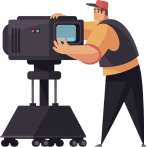
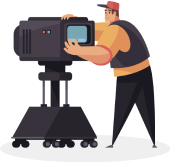
changed img css and index

diff --git a/index.html b/index.html
@@ -37,29 +37,36 @@
 
         <!--MAIN-->
         <div class="main">
-            <h1>Как смотреть кино</h1>
+            <h1>Как смотреть <br> кино</h1>
+
             <p>
-                За 8 занятий станем активными зрителями
+                За 8 занятий станем активными зрителями <br>
                 и разберёмся в кинопроцессе
             </p>
-            <img class="producer" src="img/producer_shadow.png" alt="producer">
-            <img class="shadow" src="img/shadow.png" alt="producer_shadow">
-            <p>
-                Зритель для меня
+
+            <img class="producer" src="img/producer.png" alt="producer">
+
+            <p class="author-text">
+                Зритель для меня <br>
                 не потребитель моей продукции, не судья,
                 а соучастник творчества, соавтор.
+                <span>Андрей Тарковский</span>
             </p>
+
             <h2>О курсе</h2>
-            <p>
+
+            <p class="about">
                 Порой фильмы устроены сложнее четырёхтомных романов. Но читать книги учат со школы, а смотреть кино —
                 нет. При этом без подготовки бывает трудно получить от просмотра удовольствие.
             </p>
-            На курсе из 8 занятий научимся быть осознанными зрителями. Познакомимся с этапами кинопроизводства и
-            узнаем, как смотреть кино глазами сценариста, режиссёра и монтажёра. Разберёмся в особенностях жанров и
-            рассмотрим важнейшие картины, от «Гражданина Кейна» до «Матрицы».
+
+            <p class="about">
+                На курсе из 8 занятий научимся быть осознанными зрителями. Познакомимся с этапами кинопроизводства и
+                узнаем, как смотреть кино глазами сценариста, режиссёра и монтажёра. Разберёмся в особенностях жанров и
+                рассмотрим важнейшие картины, от «Гражданина Кейна» до «Матрицы».
             </p>
+
             <img class="operator" src="img/operator.png" alt="operator">
-            <img class="shadow" src="img/operator_shadow.png" alt="operator_shadow">
             <p>
                 8 занятий
                 <span>Для погружения в кинематограф</span>

diff --git a/css/style.css b/css/style.css
@@ -1,0 +1,120 @@
+@import url('https://fonts.googleapis.com/css2?family=Roboto:ital,wght@0,100;0,300;0,400;0,500;0,700;0,900;1,100;1,300;1,400;1,500;1,700;1,900&display=swap');
+@import url('https://fonts.googleapis.com/css2?family=Roboto+Slab:wght@100;200;300;400;500;600;700;800;900&display=swap');
+
+* {
+    margin: 0;
+    padding: 0;
+}
+
+body {
+    font-family: 'Roboto', sans-serif;
+    font-size: 10px;
+    line-height: 15px;
+    font-weight: 400;
+}
+
+h1 {
+    font-family: 'Roboto Slab', sans-serif;
+    font-size: 37px;
+    line-height: 37px;
+    margin-bottom: 15px;
+    font-weight: 700;
+}
+
+h2 {
+    font-size: 26px;
+    font-family: 'Roboto Slab', sans-serif;
+    margin-bottom: 20px;
+}
+
+.footer {
+    background-color: black;
+}
+
+/*** MOBILE **/
+@media(max-width: 991px) and (min-width: 320px) {
+    .wrapper {
+        width: 100%;
+        padding-top: 36px;
+        padding-left: 36px;
+        padding-right: 40px;
+    }
+
+    .header {
+        width: 100%;
+    }
+
+    .logo {
+        width: 52px;
+        height: 30px;
+        margin-bottom: 40px;
+    }
+
+    .navigation {
+        display: flex;
+        list-style-type: none;
+    }
+
+    .navigation li {
+        display: flex;
+        align-items: center;
+    }
+
+    .navigation img {
+        display: block;
+        margin-right: 5px;
+        margin-left: 10px;
+    }
+
+    .navigation li:first-child img {
+        margin-left: 0;
+    }
+
+    .navigation a {
+        color: black;
+        font-size: 10px;
+        text-decoration: none;
+    }
+
+    .navigaion a:hover {
+        color: blue;
+        text-decoration: underline;
+    }
+
+    .main {
+        margin-top: 20px;
+    }
+
+    .producer {
+        display: block;
+        margin: 10px 0 25px 120px;
+        width: 142px;
+        height: 174px;
+    }
+
+    .author-text {
+        box-sizing: border-box;
+        background-color: #1e4681;
+        color: white;
+        line-height: 14px;
+        margin-bottom: 50px;
+        font-family: 'Roboto Slab', sans-serif;
+        font-size: 11px;
+        padding: 12px;
+        width: 225px;
+        height: 93px;
+    }
+
+    .author-text span {
+        display: block;
+        text-align: right;
+    }
+
+    .about {
+        font-size: 12px;
+        line-height: 18px;
+        width: 308px;
+        margin-bottom: 20px;
+    }
+
+}
